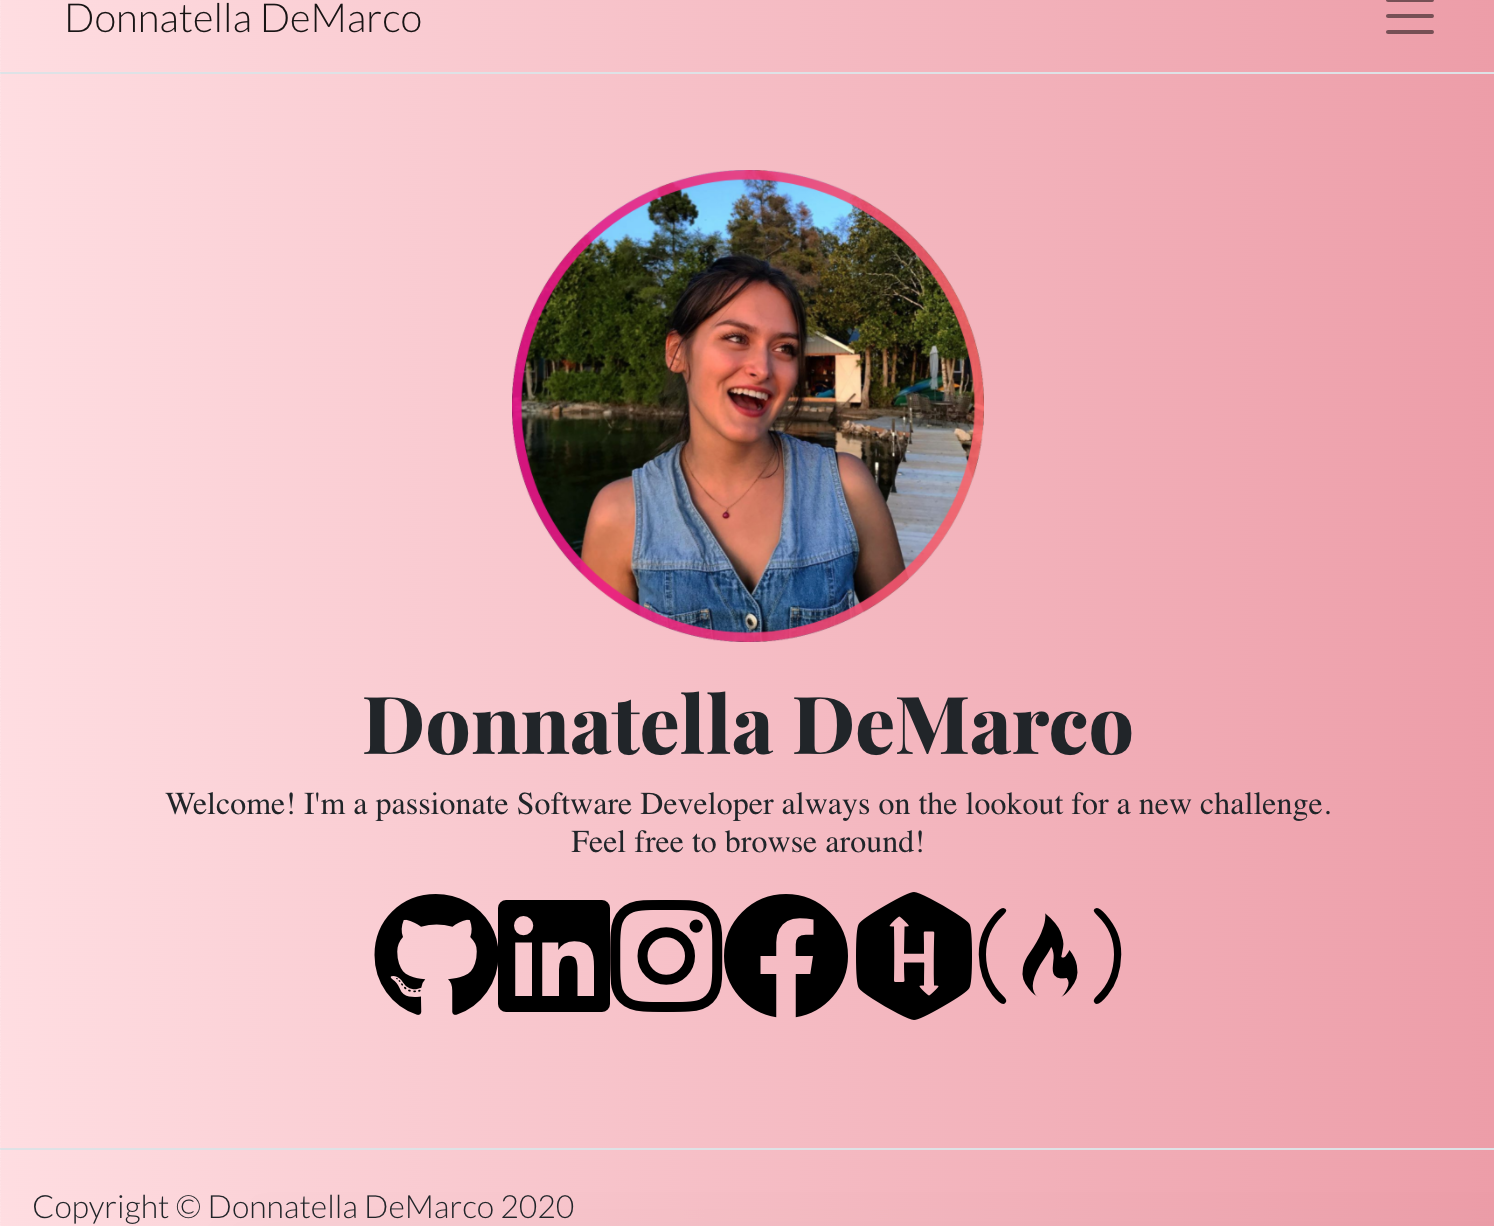
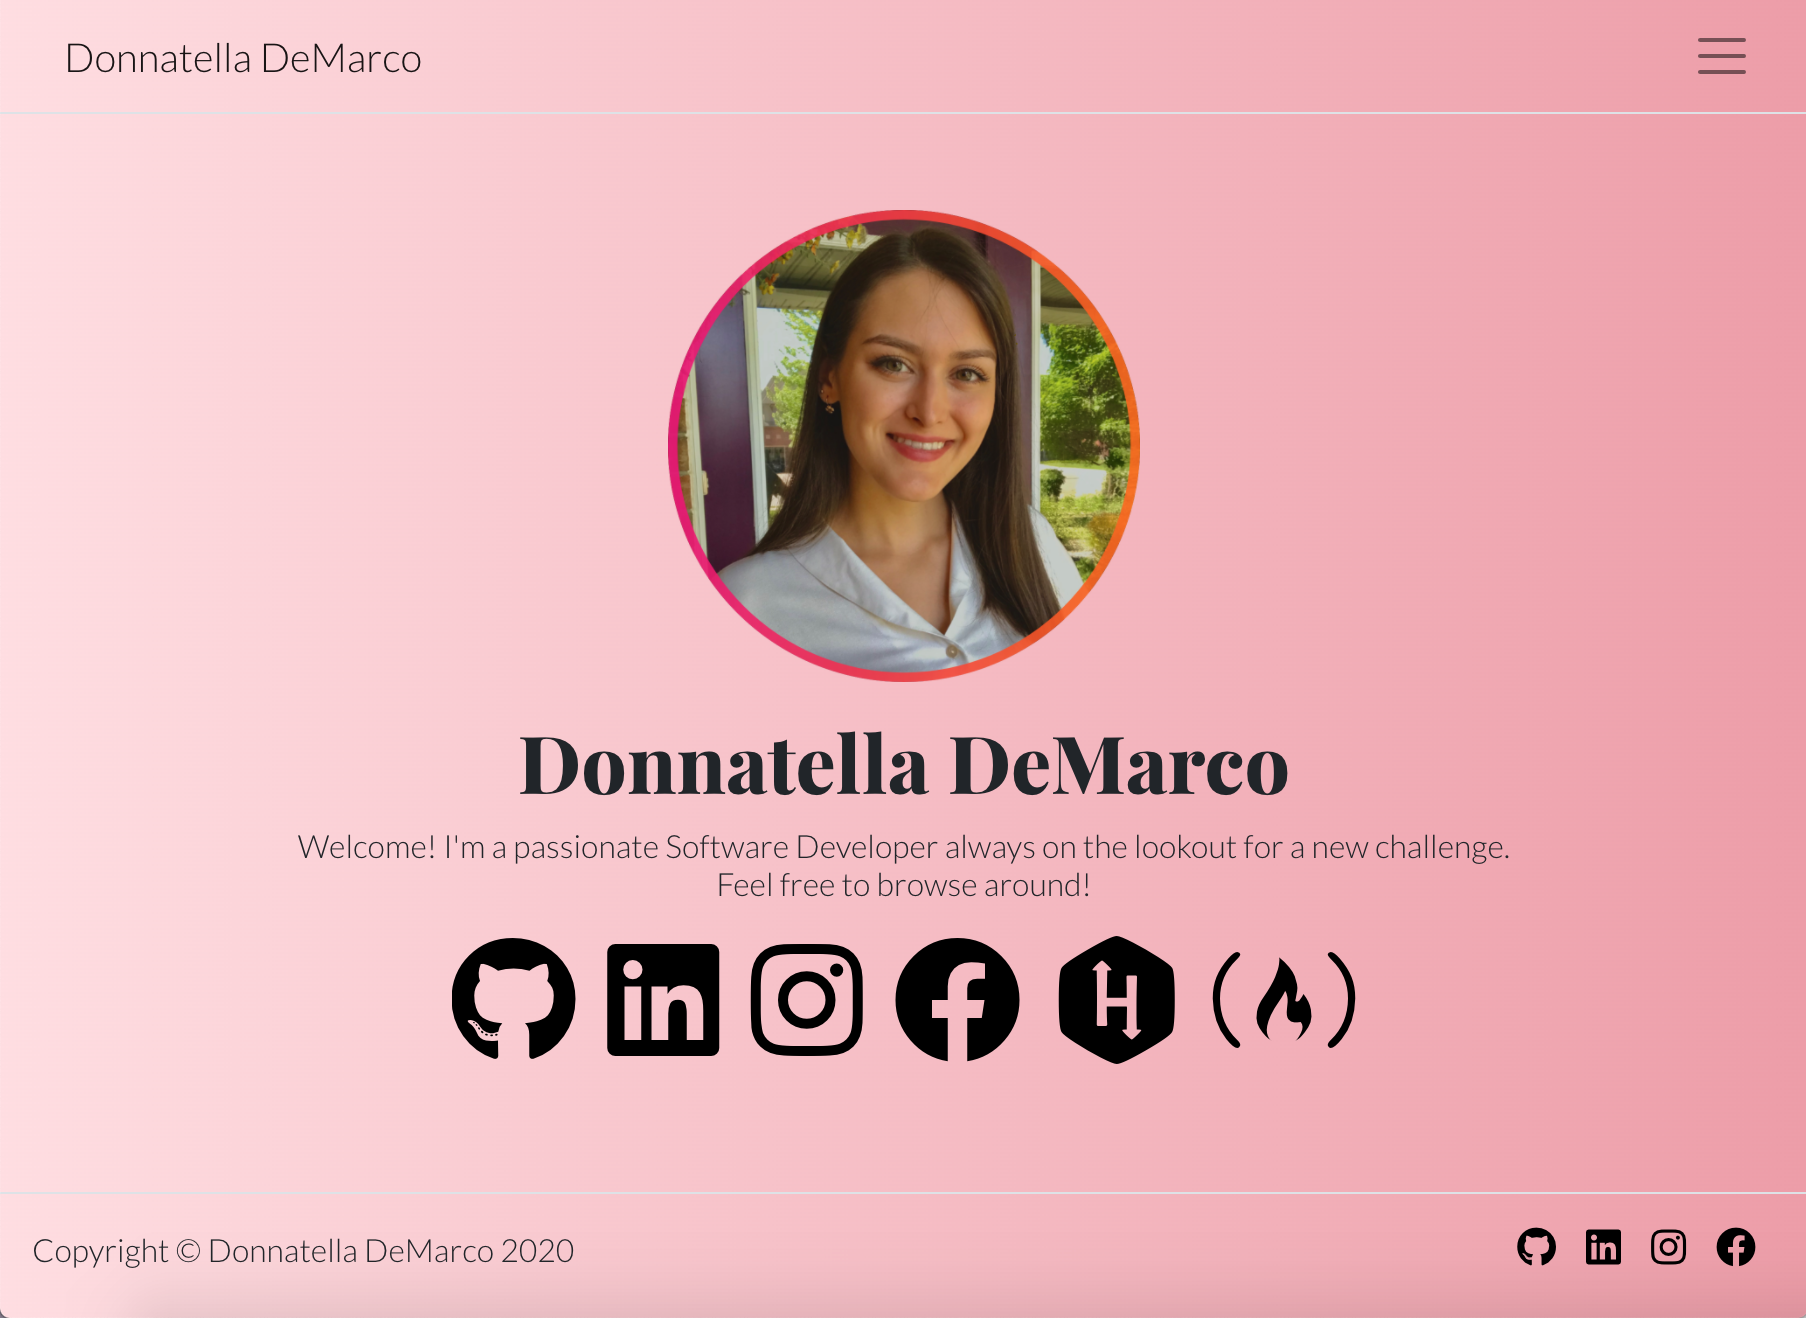
added styling and more data to projects page

diff --git a/src/portfolio.js b/src/portfolio.js
@@ -8,9 +8,13 @@ const portfolio ={
             github: 'https://github.com/demarcod/demarcod.github.io',
             mainImage: '/portfolio1.png',
             images:[
-                {desc: 'Home Page', photo: '/portfolio2.png'},
-                {desc: 'hello2', photo: 'https://images.pexels.com/photos/241316/pexels-photo-241316.jpeg?auto=compress&cs=tinysrgb&dpr=1&w=500'}
+                {desc: 'Home Page', photo: '/portfolio1.png'},
+                {desc: 'About Page', photo: '/portfolio2.png'},
+                {desc: 'Experience Page', photo: '/portfolio3.png'},
+                {desc: 'Projects Page', photo: '/portfolio4.png'},
+                {desc: 'Contact Page', photo: '/portfolio5.png'}
             ],
+            longDesc: "Seems kind of redundant to include my own portfolio site in my projects list, eh? Well I'm quite proud of my work here, so I figured why not pop it in? It's my first website I've created using a React framework and it helped me solidify my skills in Javascript, HTML, CSS, Form Handling, and exploring how to make a website responsive.",
             resources: [
                 {text: 'Github', link: 'https://github.com/demarcod/demarcod.github.io'}
             ]
@@ -21,8 +25,12 @@ const portfolio ={
             description: 'Research project where I identified discrepancies in piano performances, resulting in an efficient way to analyze sheet music using Python',
             category: ['RESEARCH', 'PYTHON'],
             github: 'https://github.com/demarcod/Piano-Project',
-            mainImage: '',
-            images: [{desc: 'hello1', photo: '/logo192.png'}],
+            mainImage: '/piano1.png',
+            images: [
+                {desc: 'MIDI file and score sheet of piano performance', photo: '/piano2.png'},
+                {desc: 'Generated MusicXML file', photo: '/piano3.png'}
+            ],
+            longDesc: "When playing the piano, or any musical instrument, most artists have a 'musical fingerprint', meaning they may make consistent alterations to the music they perform (i.e. perhaps they always play a certain note with more emphasis). The end goal of this project was to recreate a piano performane in the style that a certain artist would have performed it. I found digital files of various artists performing the same piece and created a database of these files for analysis purposes. I also explored the concept of neural networks and documented how they may be used to advance the project's goals. One of my main contributions entailed finding a way to automate the process of converting audio files to MusicXML files, and thus discovering a way to analyze music in text form using python. I found the uniqueness and complexity of the project particularly fascinating. I have a background in playing classical piano, and loved how there were so many avenues of technology to be explored within the scope of the project!",
             resources: [
                 {text: 'Github', link: 'https://github.com/demarcod/Piano-Project'}
             ]
@@ -34,8 +42,9 @@ const portfolio ={
             description: 'Basic Unit Converter application I created with a friend using an Ionic framework in order to gain experience with mobile development',
             category: ['ANGULAR', 'MOBILE', 'FRONT-END'],
             github: 'google.com',
-            mainImage: '',
-            images: [{desc: 'hello1', photo: '/logo192.png'}],
+            mainImage: '/temp1.png',
+            images: [{desc: 'Project in progress - images coming soon', photo: '/temp2.png'}],
+            longDesc: "",
             resources: [
                 {text: 'Github', link: 'https://github.com/demarcod/Piano-Project'}
             ]
@@ -46,8 +55,11 @@ const portfolio ={
             description: 'Website I created for a new medical business, CIDC, using React, including an appointment scheduling application',
             category: ['REACT', 'UX-UI', 'FRONT-END'],
             github: 'google.com',
-            mainImage: '',
-            images: [{desc: 'hello1', photo: '/logo192.png'}],
+            mainImage: '/temp1.png',
+            images: [
+                {desc: 'Project in progress - images coming soon', photo: '/temp2.png'}
+            ],
+            longDesc: "Business website for CIDC (Comprehensive Infectious Diseases Consultants) built using React.",
             resources: [
                 {text: 'Github', link: 'https://github.com/demarcod/Piano-Project'}
             ]
@@ -60,6 +72,7 @@ const portfolio ={
             github: 'https://github.com/demarcod/Astro-Pizza',
             mainImage: '/astro-pizza2.png',
             images: [{desc: 'Ordering Page', photo: '/astro-pizza2.png'},{desc: 'Ordering Page', photo: '/astro-pizza2.png'}],
+            longDesc: "",
             resources: [
                 {text: 'Github', link: 'https://github.com/demarcod/Astro-Pizza'}
             ]

diff --git a/src/App.css b/src/App.css
@@ -8,6 +8,71 @@
   flex-direction: column;
 }
 
+.project-tags {
+  height: 250px;
+  background-color: #666666;
+  opacity: 0;
+  -webkit-transition: all 300ms ease-out;
+  -moz-transition: all 300ms ease-out;
+  -o-transition: all 300ms ease-out;
+  -ms-transition: all 300ms ease-out;
+  transition: all 300ms ease-out;
+}
+
+.project-tags:hover {
+  background-color: black;
+  opacity: 0.8;
+}
+
+.project-tags-text {
+  display: flex;
+  flex-flow: row wrap;
+  justify-content: space-evenly;
+  padding: 50px;
+  border: 50px;
+}
+
+.tag {
+  padding: 5px 10px;
+  border: 1px #ff7675 solid;
+  border-radius: 25px;
+  font-family: 'Lato';
+  font-weight: bold;
+}
+
+.example .tag {
+  -webkit-transition: all 300ms ease-out;
+  -moz-transition: all 300ms ease-out;
+  -o-transition: all 300ms ease-out;
+  -ms-transition: all 300ms ease-out;
+  transition: all 300ms ease-out;
+  transform: translateY(30px);
+  -webkit-transform: translateY(30px);
+}
+.example .title {
+  text-transform: uppercase;
+  opacity: 0;
+  transition-delay: 0.2s;
+  transition-duration: 0.3s;
+}
+
+.example:hover .title,
+      .example:focus .title {
+        opacity: 1;
+        transform: translateY(0px);
+        -webkit-transform: translateY(0px);
+      }
+
+.footer-links {
+  padding-right: 10px;
+}
+
+.footer-links i {
+  color: black;
+  padding-left: 15px;
+  font-size: 20px;
+}
+
 .home-desc {
   font-family: 'Lato';
 }
@@ -32,13 +97,11 @@
 
 .about-text {
   width: 40vw;
-  /*
-  height: 400px;
+  height: 600px;
   overflow-y: scroll;
-  */
 }
 
-/*
+
 .about-text::-webkit-scrollbar {
   -webkit-appearance: none;
 }
@@ -56,7 +119,7 @@
   border: 1px solid white;
   background-color: rgba(0, 0, 0, .5);
 }
-*/
+
 
 
 .about-text-title {
@@ -77,10 +140,11 @@ hr {
   justify-content: left;
 }
 
-.resources-text {
+.projects-text {
   font-family: 'Lato';
   font-size: 20px;
   margin-left: 5%;
+  margin-right: 5%;
   margin-top: 1%;
 }
 
@@ -137,8 +201,13 @@ hr {
   right: 5%;
 }
 
+.imgg {
+  max-height: 600px;
+}
+
 .project-title {
   margin-left: 5%;
+  margin-right: 5%;
   margin-top: 5%;
   border-bottom: 1px solid #333;
 }
@@ -155,11 +224,14 @@ hr {
 }
 
 .testing1 {
-  display: flex;
-  justify-content: flex-start;
-  flex-direction: row;
-  flex-wrap: wrap;
-  margin-left: 5%;
+  display: grid;
+  grid-template-columns: repeat(auto-fill, minmax(345px, 0fr)); /* see notes below */
+  grid-gap: 1em;
+  justify-content: center;
+}
+
+.hello {
+  box-shadow: 0 0 10px rgba(0, 0, 0, 0.3);
 }
 
 .detail-title {
@@ -219,10 +291,6 @@ h6 {
   text-transform: uppercase;
 }
 
-
-.hello {
-  box-shadow: 0 0 10px rgba(0, 0, 0, 0.3);
-}
 
 .skills-buttons {
   position: relative;
@@ -396,6 +464,12 @@ h6 {
 }
 
 @media only screen and (max-width: 875px) {
+
+  .about-text {
+    width: 40vw;
+    height: auto;
+    overflow-y: auto;
+  }
 
   .about-content {
     display: flex;

diff --git a/src/Pages/Projects.js b/src/Pages/Projects.js
@@ -56,13 +56,21 @@ class Projects extends React.Component{
                     </ul>
 
                     <p className="portfolio-message">{message}</p>
-                    <div className="testing">
+
                         <div className="testing1">
                         {posts.map(post => (
                             <div className="hello" style={{width: '345px', margin: '5px', border: '1px solid #ff7675', 'background-color': '#fff'}}>
                                 <a style={{color: '#ff7675', height: '35px', 'font-size': '32px', 'font-family': 'Lato', 'margin': ' 1.5px 15px', 'display': 'flex', 'flex-direction': 'column'}} href={`/projects/${post.name}`}>{post.name}</a>
                                 <time style={{color: '#777', 'font-family': 'Lato', 'font-size': 'small', 'margin': '20px' }}>{post.date}</time>
-                                <CardTitle style={{color: '#fff', 'margin-top': '10px', height: '250px', 'border-top': '1px solid #ff7675', 'border-bottom': '1px solid #ff7675', 'background': 'url(' + post.mainImage + ') center / cover'}}></CardTitle>
+                                <CardTitle className="example" style={{color: '#fff', 'margin-top': '10px', height: '250px', 'border-top': '1px solid #ff7675', 'border-bottom': '1px solid #ff7675', 'background': 'url(' + post.mainImage + ') center / cover'}}>
+                                    <div className="project-tags">
+                                            <div className="project-tags-text">
+                                                {post.category.map(function(name, index){
+                                                    return <p className="title tag" key={ index }>{name}</p>;
+                                                })}
+                                            </div>
+                                    </div>
+                                </CardTitle>
                                 <CardText style={{margin: '20px 5px', color: 'grey', "font-family": 'Lato'}}>
                                     {post.description}
                                 </CardText>
@@ -75,7 +83,7 @@ class Projects extends React.Component{
                             </div>
                         ))}
                         </div>
-                    </div>
+
                 </div>
             </div>
         );

diff --git a/src/Components/Footer.js b/src/Components/Footer.js
@@ -8,11 +8,29 @@ function Footer() {
         <footer className="mt-4">
             <Container className="footer header-footer" fluid={true}>
                 <Row className="border-top justify-content-between p-3">
-                    <Col className="p-0" md={3} sm={12}>
+                    <Col className="p-0" md={9} sm={12}>
                         Copyright © Donnatella DeMarco {(new Date().getFullYear())}
                     </Col>
                     <Col className="p-0 d-flex justify-content-end" md={3}>
-                        This site was made by Donnatella DeMarco
+                    <div className="footer-links">
+                        {/* GitHub */}
+                        <a href="https://github.com/demarcod" title="Github" rel="noopener noreferrer" target="_blank">
+                            <i className="fa fa-github" aria-hidden="true" />
+                        </a>
+                        {/* LinkedIn */}
+                        <a href="https://www.linkedin.com/in/donnatella/" title="LinkedIn" rel="noopener noreferrer" target="_blank">
+                            <i className="fa fa-linkedin-square" aria-hidden="true" />
+                        </a>
+                        {/* Instagram */}
+                        <a href="https://www.instagram.com/missdonnatella/" title="Instagram" rel="noopener noreferrer" target="_blank">
+                            <i className="fab fa-instagram" aria-hidden="true" />
+                        </a>
+                        {/* Facebook */}
+                        <a href="https://www.facebook.com/donnatella.demarco" title="Facebook" rel="noopener noreferrer" target="_blank">
+                            <i className="fab fa-facebook" aria-hidden="true" />
+                        </a>                                                                                              
+                    </div>
+
                     </Col>
                 </Row>
             </Container>

diff --git a/src/Pages/About.js b/src/Pages/About.js
@@ -15,7 +15,7 @@ function About(props){
                         <h5 className="about-text-title">ABOUT</h5>
                         <hr/>
                         <div className="about-text-content">
-                            <p>Hey, I'm Donnatella DeMarco - a highly motivated and ambitious Software Developer with just a little under 2 years of professional experience. I have experience in full-stack development, web design, and research.</p>
+                            <p>I'm Donnatella DeMarco - a highly motivated and ambitious Software Developer with just a little under 2 years of professional experience. I'm experienced primarily in full-stack development, web design, and research.</p>
                             <p>I'm currently on the lookout for an exciting employment opportunity or a new project to be involved in. <a href="/Contact">Contact me</a> if you like what you see and want to collaborate!</p>
                         </div>
                         <h5 className="about-text-title">EDUCATION</h5>

diff --git a/src/Pages/Details.js b/src/Pages/Details.js
@@ -44,7 +44,7 @@ const Details = (props) => {
         </div>
         <div style={{'padding-bottom': '50px'}}>
             <h1 className="project-title">About this project</h1>
-            <p>{detail.longDesc}</p>
+            <p className="projects-text">{detail.longDesc}</p>
             <h1 className="project-title">Technologies/skills used</h1>
             <ul className="project-list">
                 {detail.category.map((skill) => {
@@ -56,7 +56,7 @@ const Details = (props) => {
                 })}
             </ul>
             <h1 className="project-title">Resources</h1>
-            <p className="resources-text">Like what you see? Explore this project more using the resources below!</p>
+            <p className="projects-text">Like what you see? Explore this project more using the resource(s) below!</p>
             <ul className="project-list">
                 {detail.resources.map((resource) => {
                     return(
